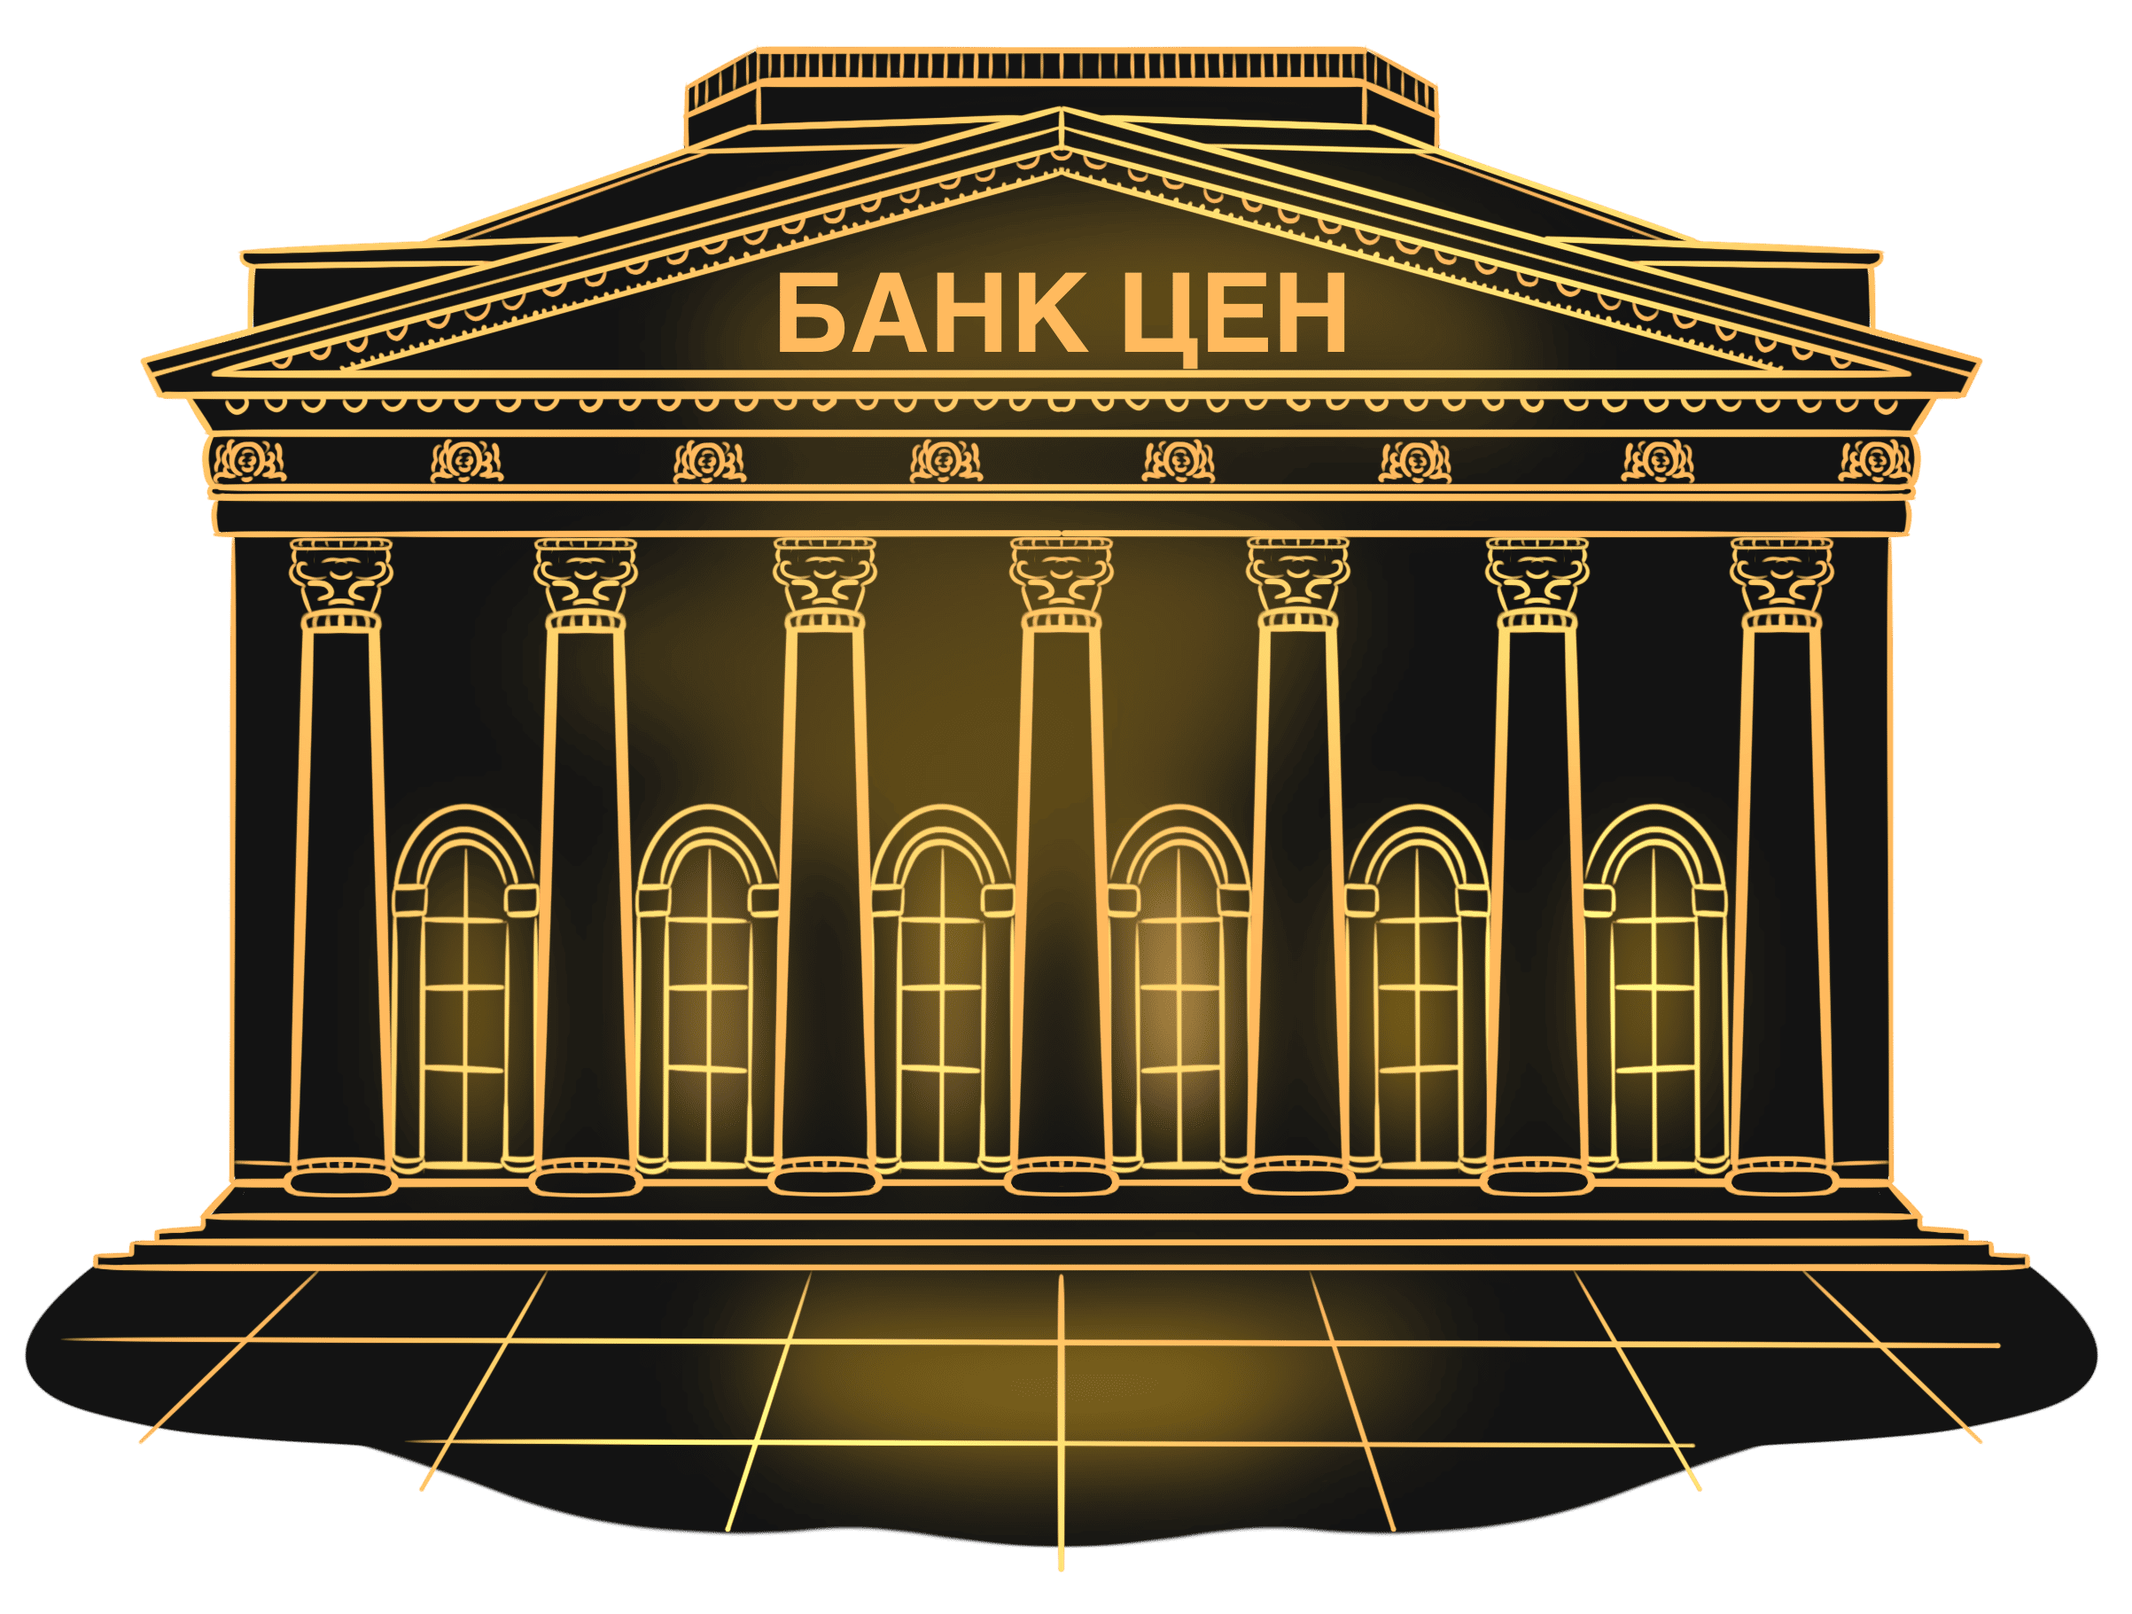
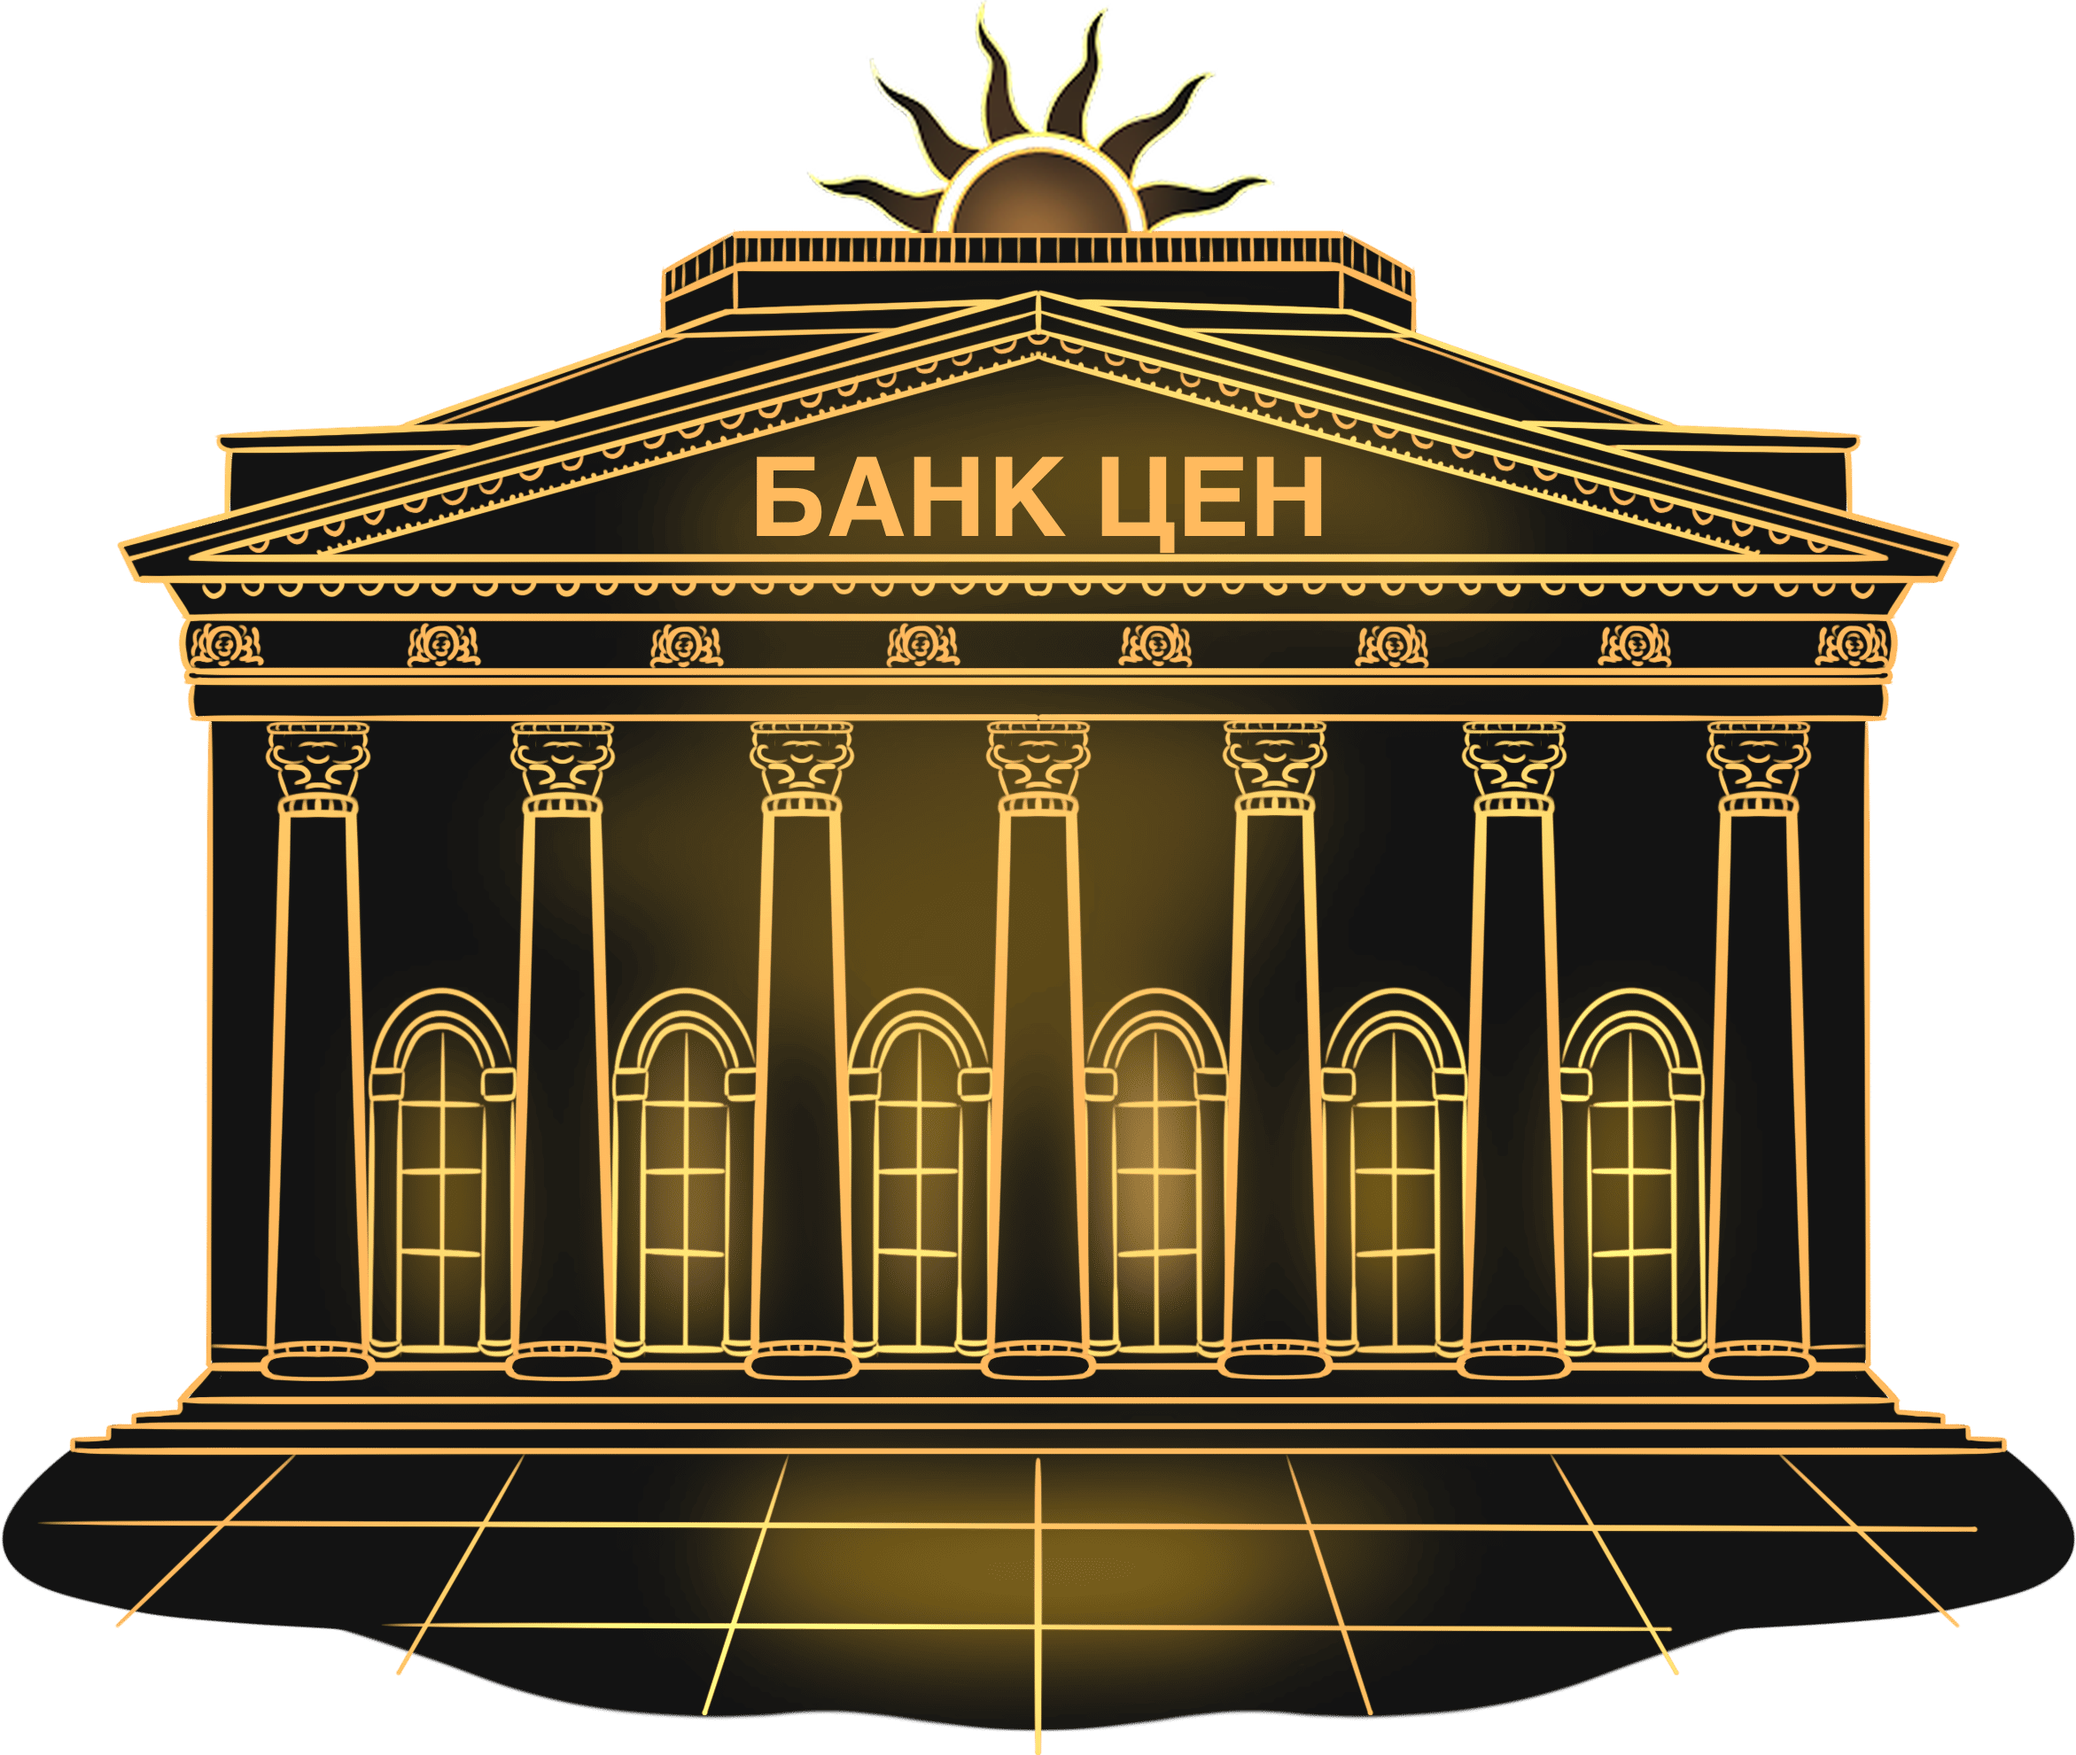
fix: add sun to bank

diff --git a/src/data/mainData.ts b/src/data/mainData.ts
@@ -186,13 +186,13 @@ export const buildings = [
     subtitle: 'ЦЕН',
     image: '/assets/images/main/buildings/банк.png',
     description: 'наши цены реальны',
-    position: { top: 620, left: 240 },
+    position: { top: 610, left: 240 },
     link: '/bank',
     width: 151,
-    height: 115,
+    height: 125,
     separatePage: {
-      width: 870,
-      height: 650,
+      width: 865,
+      height: 700,
     },
   },
   {

diff --git a/src/pages/building/[id].module.css b/src/pages/building/[id].module.css
@@ -151,7 +151,7 @@
 .mainBuildingSimple {
   inline-size: 100%;
   align-self: end;
-  margin-block-start: 145px;
+  margin-block-start: 80px;
 }
 
 .descriptionSimple {

diff --git a/src/pages/main/index.module.css b/src/pages/main/index.module.css
@@ -63,7 +63,7 @@
   position: absolute;
   display: flex;
   flex-direction: column;
-  gap: 5px;
+  gap: 2px;
 }
 
 .imageBuilding {
